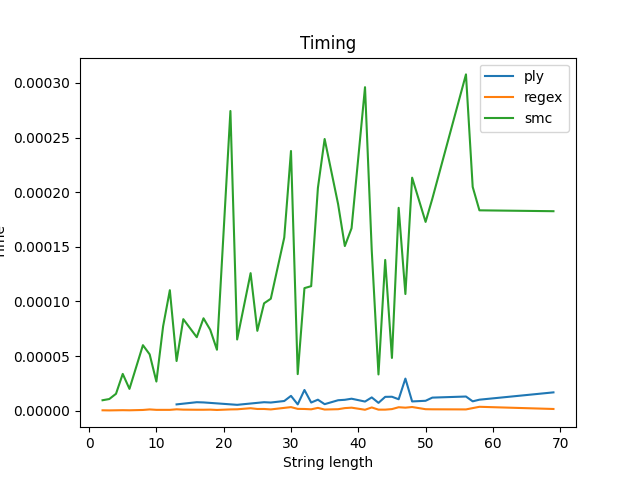
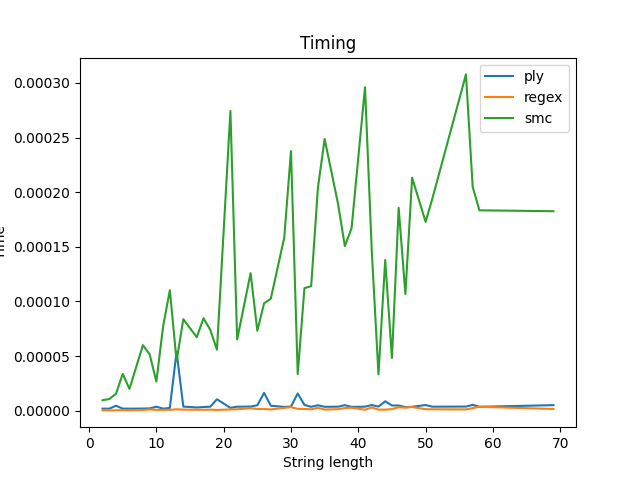
Update

Changed region(s): [[0.1562, 0.75, 0.875, 0.875]]

diff --git a/lab1/Lexer/timing.py b/lab1/Lexer/timing.py
@@ -9,12 +9,10 @@ file = open(name, "r")
 strings = file.readlines()
 
 
-tokens = ("NUM", "LPART", "RPART")
+tokens = ("NUM", "STR")
 t_NUM = r"[1-9]\d*"
-#t_STR = r"[a-zA-z][a-zA-Z\d]{,15}\s*=\s*(-?[1-9]\d*|[a-zA-Z][a-zA-Z\d]{,15})(\s*[+\-\*/]\s*(-?[1-9]\d*|" \
-#        r"[a-zA-Z][a-zA-Z\d]{,15}))?"
-t_LPART = r"[a-zA-z][a-zA-Z\d]{,15}\s*=\s*(-?[1-9]\d*|[a-zA-Z][a-zA-Z\d]{,15})"
-t_RPART = r"\s*[+\-\*/]\s*(-?[1-9]\d*|[a-zA-Z][a-zA-Z\d]{,15})"
+t_STR = r"^[a-zA-z][a-zA-Z\d]{,15}\s*=\s*(-?[1-9]\d*|[a-zA-Z][a-zA-Z\d]{,15})(\s*[+\-\*/]\s*(-?[1-9]\d*|" \
+         r"[a-zA-Z][a-zA-Z\d]{,15}))?$"
 t_ignore = " \r\n\t\f"
 
 
@@ -29,30 +27,42 @@ lexer = lex.lex()
 
 def timing(x, y):
     for s in strings:
-        a = []
         lexer.input(s)
         start_time = time.perf_counter()
         try:
-            while True:
-                try:
-                    tok = lexer.token()
-                    if not tok:
-                        break
-                    a.append(tok)
-                except lex.LexError:
-                    break
-            if len(a) == 3 and a[0].type == "NUM" and a[1].type == "LPART" and a[2].type == "RPART":
-                end_time = time.perf_counter()
-                y.append(end_time - start_time)
-                x.append(len(s))
-            elif len(a) == 2 and a[0].type == "NUM" and a[1].type == "LPART":
-                end_time = time.perf_counter()
-                y.append(end_time - start_time)
-                x.append(len(s))
-        except lex.LexError:
-            end_time = time.perf_counter()
-            y.append(end_time-start_time)
+            tok1 = lexer.token()
+            tok2 = lexer.token()
+            y.append(time.perf_counter() - start_time)
             x.append(len(s))
+        except lex.LexError:
+            y.append(time.perf_counter() - start_time)
+            x.append(len(s))
+
+    # for s in strings:
+    #     a = []
+    #     lexer.input(s)
+    #     start_time = time.perf_counter()
+    #     try:
+    #         while True:
+    #             try:
+    #                 tok = lexer.token()
+    #                 if not tok:
+    #                     break
+    #                 a.append(tok)
+    #             except lex.LexError:
+    #                 break
+    #         if len(a) == 3 and a[0].type == "NUM" and a[1].type == "LPART" and a[2].type == "RPART":
+    #             end_time = time.perf_counter()
+    #             y.append(end_time - start_time)
+    #             x.append(len(s))
+    #         elif len(a) == 2 and a[0].type == "NUM" and a[1].type == "LPART":
+    #             end_time = time.perf_counter()
+    #             y.append(end_time - start_time)
+    #             x.append(len(s))
+    #     except lex.LexError:
+    #         end_time = time.perf_counter()
+    #         y.append(end_time-start_time)
+    #         x.append(len(s))
 
 
 

diff --git a/lab1/graph.py b/lab1/graph.py
@@ -24,7 +24,7 @@ def start():
         d.clear()
     plt.legend()
     # plt.savefig("compare_1")
-    plt.savefig("compare_2")
+    plt.savefig("compare_3")
 
 
 if __name__ == "__main__":
